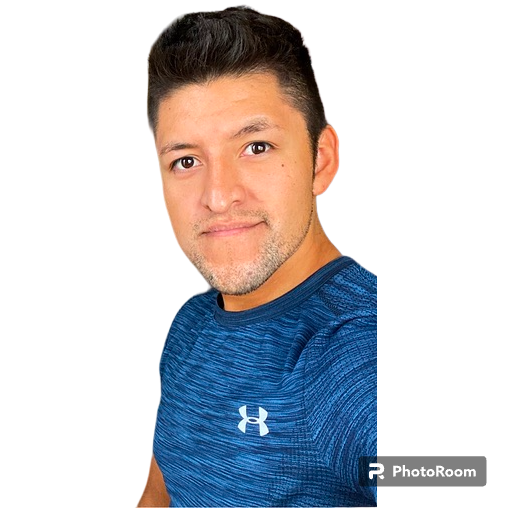
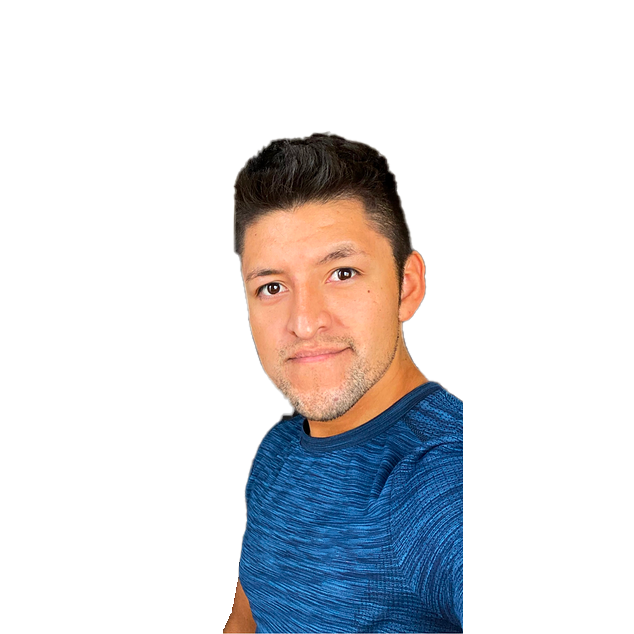
profile image updated

diff --git a/src/container/Header/Header.scss b/src/container/Header/Header.scss
@@ -1,41 +1,41 @@
 #home {
     position: relative;
-    background: url("../../assets/bgIMG.png");
+    background: url("../../assets/bgIMG2.png");
     background-size: cover;
     background-position: center;
     background-repeat: repeat;
-  
+
     // disable the default padding styles
     .app__wrapper {
       padding: 0;
-  
+
       .copyright {
         display: none;
       }
     }
   }
-  
+
   .app__header {
     flex: 1;
     width: 100%;
     height: 100%;
     flex-direction: row;
-  
+
     padding: 6rem 2rem 0rem;
-  
+
     @media screen and (min-width: 2000px) {
       padding-top: 8rem;
     }
-  
+
     @media screen and (max-width: 1200px) {
       flex-direction: column;
     }
-  
+
     @media screen and (max-width: 450px) {
       padding: 6rem 1rem 2rem;
     }
   }
-  
+
   .app__header-info {
     flex: 0.65;
     display: flex;
@@ -43,22 +43,22 @@
     justify-content: flex-start;
     align-items: flex-start;
     height: 100%;
-  
+
     margin: 0 2rem;
-  
+
     @media screen and (max-width: 1200px) {
       width: 100%;
       margin-right: 0rem;
     }
   }
-  
+
   .app__header-badge {
     width: 100%;
     display: flex;
     justify-content: flex-end;
     align-items: flex-end;
     flex-direction: column;
-  
+
     .badge-cmp,
     .tag-cmp {
       padding: 1rem 2rem;
@@ -66,35 +66,35 @@
       border-radius: 15px;
       flex-direction: row;
       width: auto;
-  
+
       box-shadow: 0px 0px 20px rgba(0, 0, 0, 0.1);
     }
-  
+
     .tag-cmp {
       flex-direction: column;
       margin-top: 3rem;
-  
+
       p {
         width: 100%;
         text-transform: uppercase;
         text-align: right;
       }
     }
-  
+
     span {
       font-size: 2.5rem;
-  
+
       @media screen and (min-width: 2000px) {
         font-size: 5rem;
       }
     }
-  
+
     @media screen and (max-width: 1200px) {
       justify-content: flex-start;
       align-items: flex-start;
     }
   }
-  
+
   .app__header-circles {
     flex: 0.75;
     display: flex;
@@ -103,37 +103,37 @@
     align-items: flex-start;
     height: 100%;
     margin-left: 1rem;
-  
+
     div {
       width: 100px;
       height: 100px;
       border-radius: 50%;
-  
+
       background: var(--white-color);
       box-shadow: 0px 0px 20px rgba(0, 0, 0, 0.1);
       display: flex;
       justify-content: center;
       align-items: center;
-  
+
       img {
         width: 60%;
         height: 60%;
       }
     }
-  
+
     // circles with different height & width
-  
+
     div:nth-child(1) {
       width: 100px;
       height: 100px;
     }
-  
+
     div:nth-child(2) {
       margin: 1.75rem;
       width: 150px;
       height: 150px;
     }
-  
+
     div:nth-child(3) {
       width: 70px;
       height: 70px;
@@ -143,29 +143,29 @@
         width: 100px;
         height: 100px;
       }
-    
+
       div:nth-child(5) {
         margin: 1.75rem;
         width: 150px;
         height: 150px;
       }
-    
+
       div:nth-child(6) {
         width: 70px;
         height: 70px;
       }
-  
+
     @media screen and (min-width: 2000px) {
       div:nth-child(2) {
         width: 400px;
         height: 400px;
       }
-  
+
       div:nth-child(3) {
         width: 170px;
         height: 170px;
       }
-  
+
       div:nth-child(1) {
         width: 200px;
         height: 200px;
@@ -174,45 +174,45 @@
         width: 400px;
         height: 400px;
       }
-  
+
       div:nth-child(6) {
         width: 170px;
         height: 170px;
       }
-  
+
       div:nth-child(4) {
         width: 200px;
         height: 200px;
       }
     }
-  
+
     @media screen and (max-width: 1200px) {
       width: 100%;
       flex-direction: row;
       flex-wrap: wrap;
       margin-left: 0;
-  
+
       div {
         margin: 1rem;
       }
     }
   }
-  
+
   .app__header-img {
     flex: 1;
     height: 100%;
-  
+
     display: flex;
     justify-content: flex-end;
-    align-items: flex-end;
+    align-items: center;
     position: relative;
-  
+
     img {
       width: 100%;
       object-fit: contain;
       z-index: 1;
     }
-  
+
     .overlay_circle {
       position: absolute;
       left: 0;
@@ -222,7 +222,7 @@
       width: 100%;
       height: 90%;
     }
-  
+
     @media screen and (max-width: 1200px) {
       margin: 2rem 0;
     }
